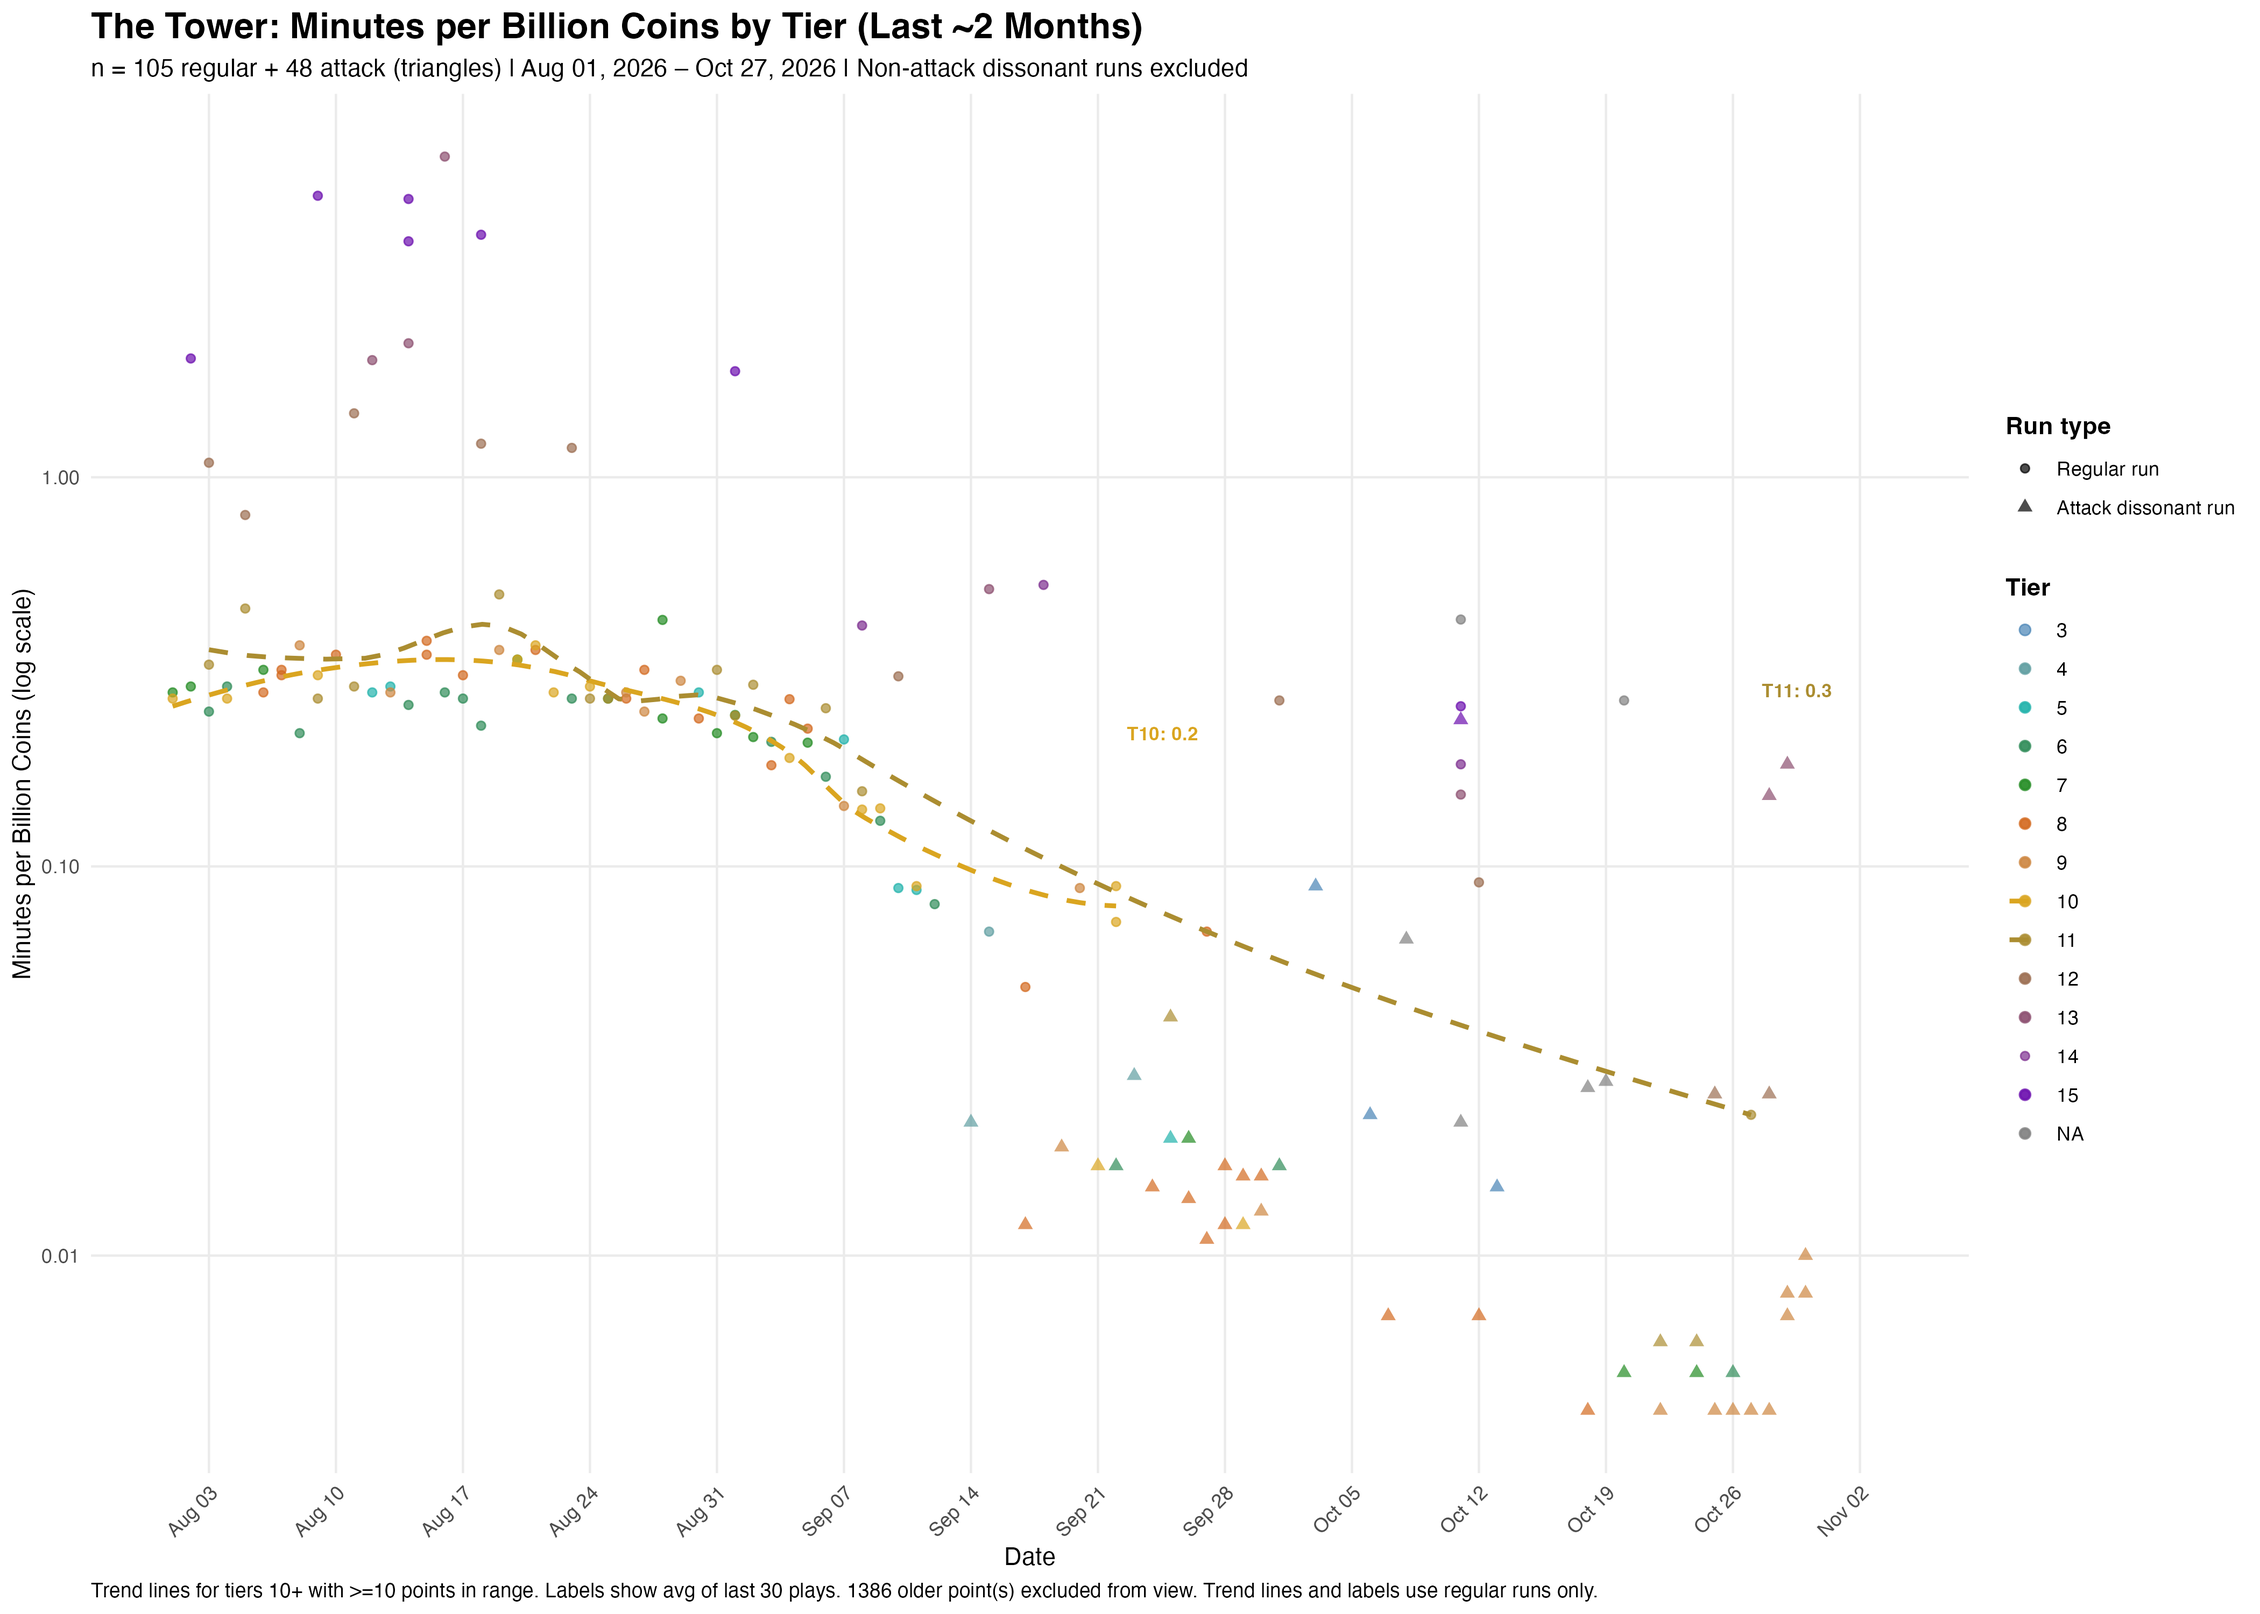
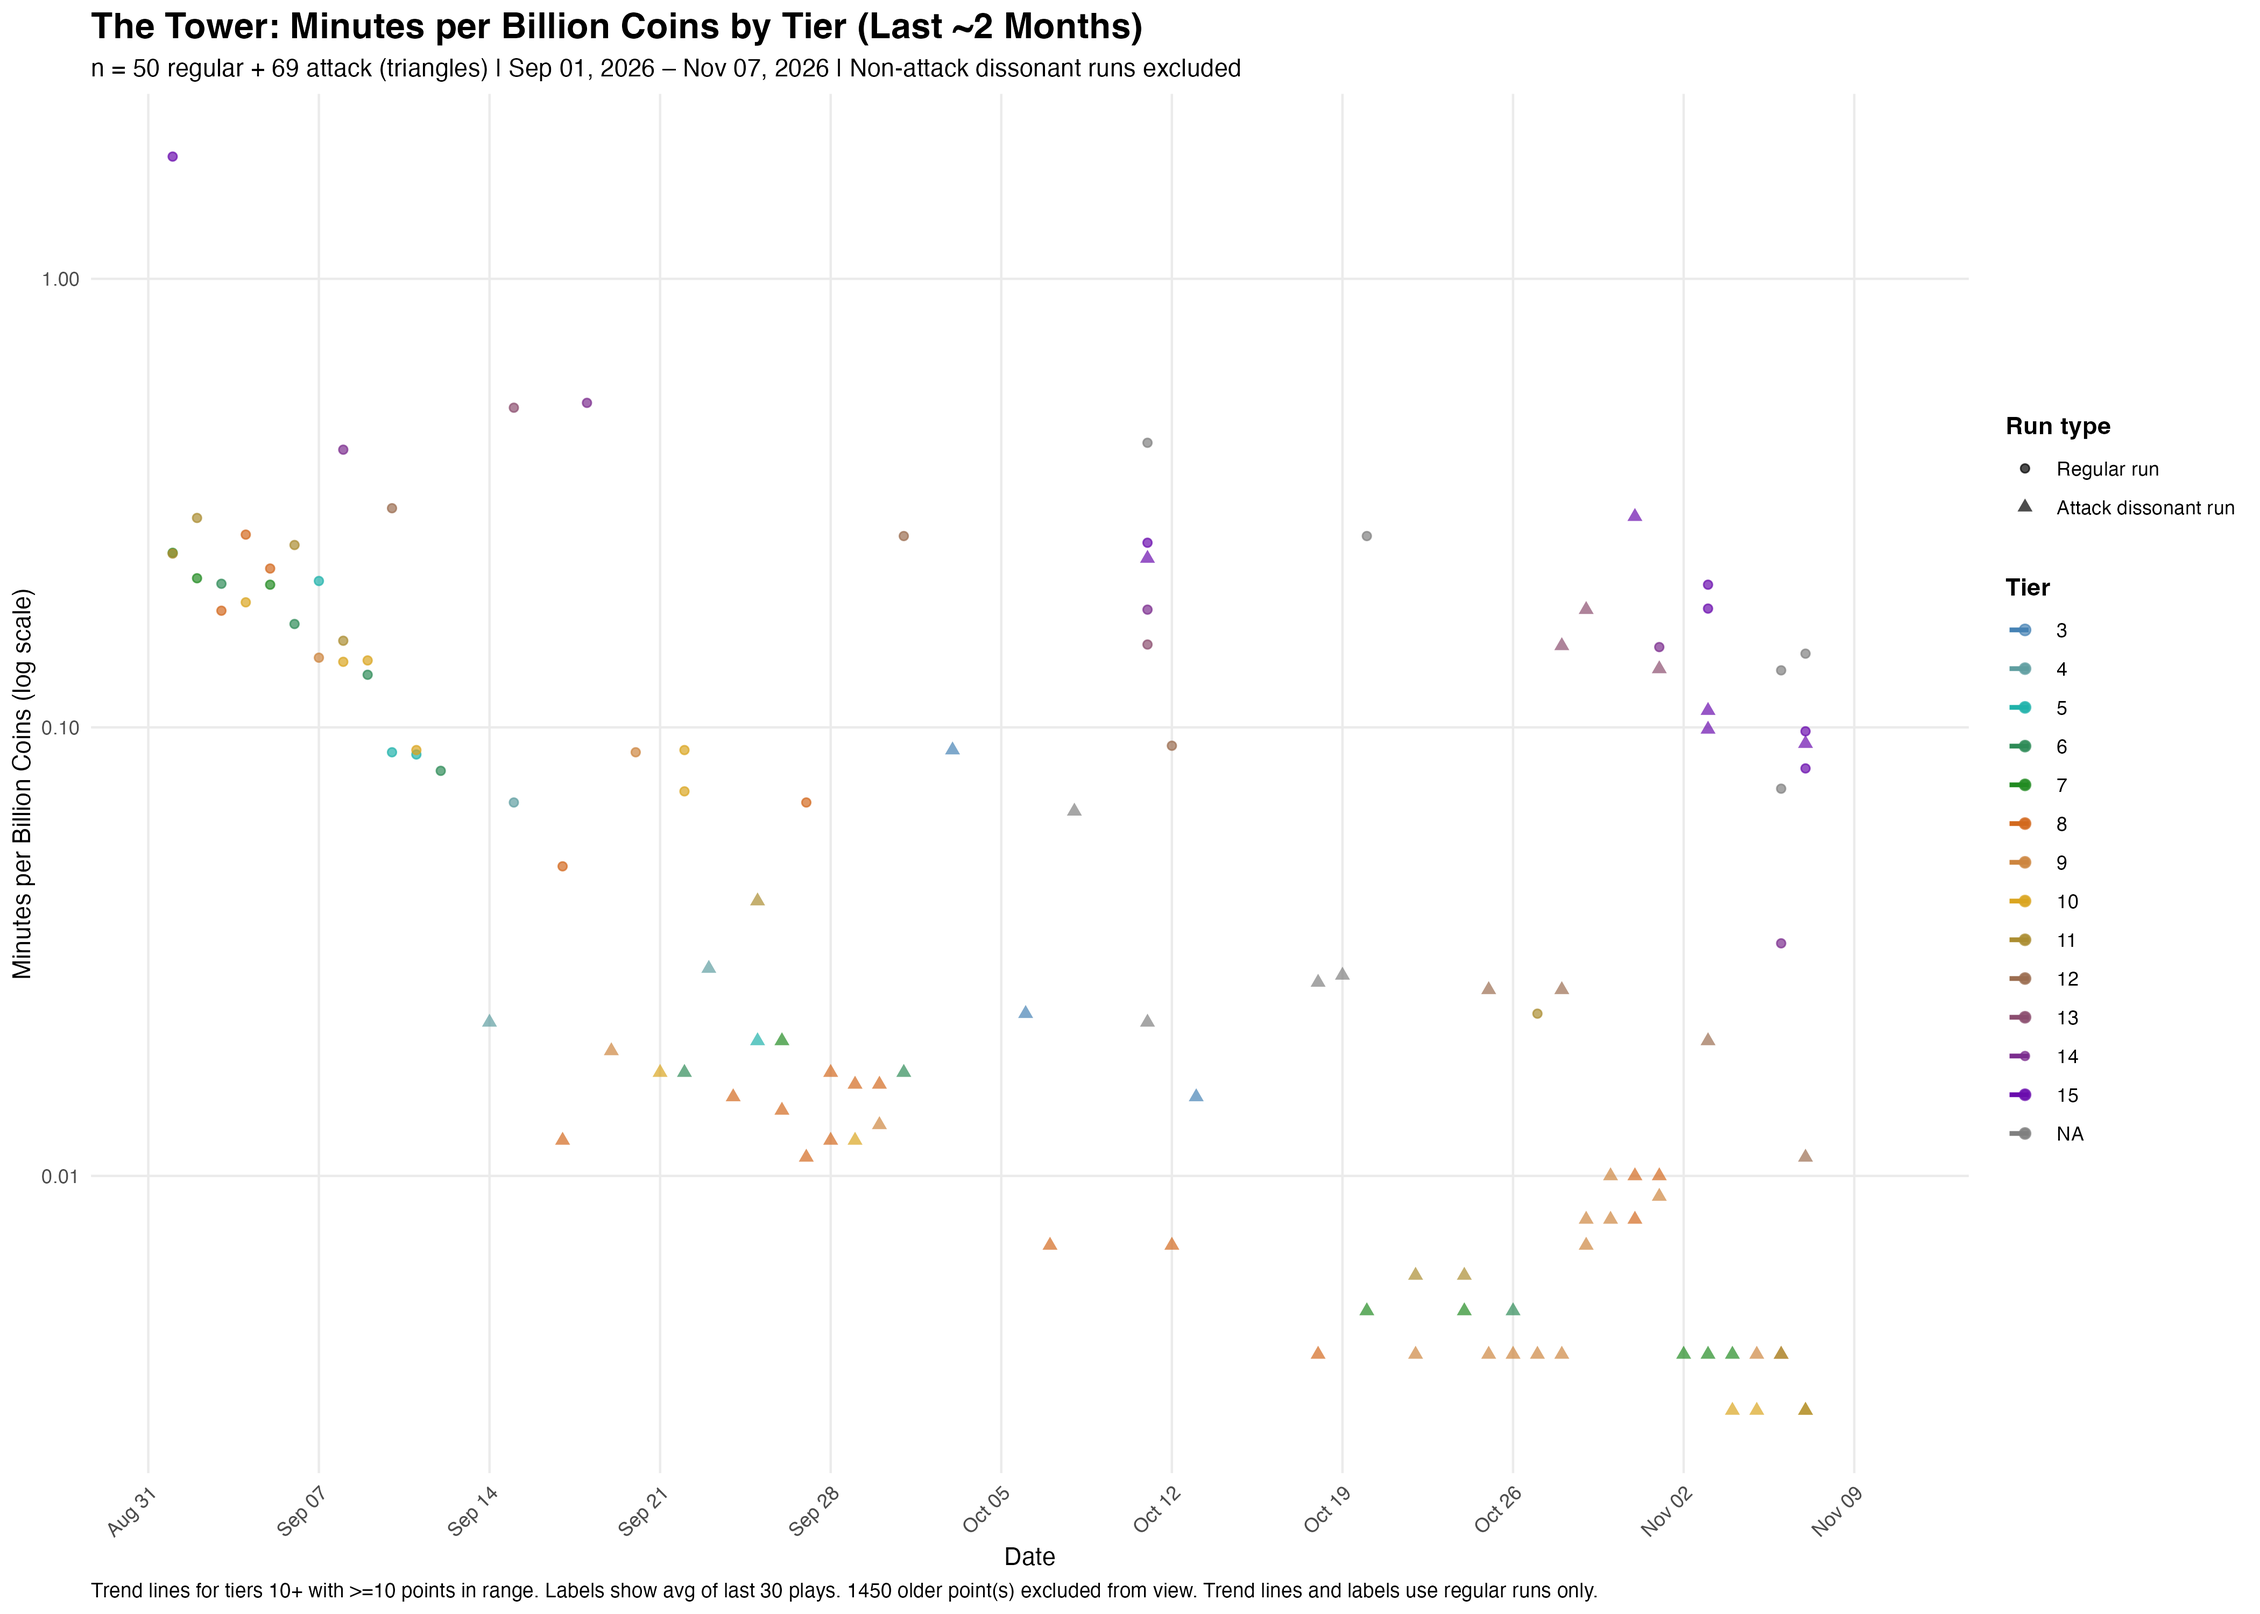
🏃 [games] The Tower: update data and graphs (#636)

diff --git a/individuals/chicks/games/the-tower/README.md b/individuals/chicks/games/the-tower/README.md
@@ -23,24 +23,24 @@ this repo.
 
 <!-- Auto-generated by analyze-playlog.R — do not edit between these markers -->
 
-### Recent Statistics (Jun 2026 – Oct 2026)
+### Recent Statistics (Jul 2026 – Nov 2026)
 
 | Tier | Games | Total Coins (B) | Avg Duration | Max Duration | Avg Coins (B) | Max Coins (B) | Avg Min/B | Avg Coins/Hr |
 | ----- | ------: | --------------: | -----------: | -----------: | --------------: | --------------: | ----------: | -------------: |
-| 16 | 2 | 51.2 | 0h10m | 0h15m | 25.6 | 34.9 | 0.35 | 182.0 |
-| 15 | 13 | 134.0 | 0h18m | 0h26m | 10.3 | 78.2 | 4.53 | 31.4 |
-| 14 | 8 | 888.6 | 0h57m | 1h49m | 111.1 | 595.0 | 2.60 | 83.3 |
-| 13 | 25 | 2,527.2 | 2h02m | 3h25m | 101.1 | 1340.0 | 3.37 | 38.0 |
-| 12 | 17 | 9,139.4 | 4h56m | 6h11m | 537.6 | 3420.0 | 1.05 | 107.8 |
-| 11 | 24 | 55,744.4 | 8h04m | 8h45m | 2322.7 | 21630.0 | 0.34 | 285.4 |
-| 10 | 58 | 126,705.0 | 9h57m | 10h17m | 2184.6 | 7800.0 | 0.31 | 221.6 |
-| 9 | 23 | 51,148.3 | 11h01m | 11h47m | 2223.8 | 7100.0 | 0.34 | 203.7 |
-| 8 | 27 | 80,262.9 | 11h49m | 12h51m | 2972.7 | 13350.0 | 0.30 | 255.0 |
-| 7 | 18 | 48,903.0 | 12h54m | 13h30m | 2716.8 | 3610.0 | 0.29 | 211.0 |
-| 6 | 19 | 78,400.0 | 15h04m | 15h39m | 4126.3 | 10590.0 | 0.24 | 277.6 |
+| 16 | 5 | 280.7 | 0h09m | 0h15m | 56.1 | 125.4 | 0.21 | 408.6 |
+| 15 | 13 | 1,101.0 | 0h22m | 0h32m | 84.7 | 398.6 | 2.69 | 179.7 |
+| 14 | 7 | 6,194.5 | 1h24m | 2h31m | 884.9 | 4580.0 | 1.30 | 404.8 |
+| 13 | 9 | 2,066.0 | 2h27m | 3h25m | 229.6 | 1340.0 | 2.33 | 77.1 |
+| 12 | 13 | 8,396.9 | 5h01m | 6h11m | 645.9 | 3420.0 | 0.90 | 128.7 |
+| 11 | 19 | 50,391.2 | 8h06m | 8h45m | 2652.2 | 21630.0 | 0.31 | 325.1 |
+| 10 | 30 | 79,422.1 | 9h58m | 10h17m | 2647.4 | 7800.0 | 0.27 | 269.7 |
+| 9 | 16 | 39,617.4 | 11h03m | 11h47m | 2476.1 | 7100.0 | 0.31 | 227.1 |
+| 8 | 23 | 72,657.1 | 11h50m | 12h51m | 3159.0 | 13350.0 | 0.29 | 271.2 |
+| 7 | 17 | 46,506.0 | 12h54m | 13h30m | 2735.6 | 3610.0 | 0.29 | 212.5 |
+| 6 | 18 | 74,950.0 | 15h04m | 15h39m | 4163.9 | 10590.0 | 0.24 | 280.2 |
 | 5 | 7 | 38,297.8 | 15h56m | 17h16m | 5471.1 | 10480.0 | 0.23 | 351.9 |
 | 4 | 1 | 14,480.0 | 16h29m | 16h29m | 14480.0 | 14480.0 | 0.07 | 878.8 |
-| **All** | **242** | **506,681.8** | **8h50m** | **17h16m** | **2093.7** | **21630.0** | **0.98** | **198.0** |
+| **All** | **178** | **434,360.8** | **9h07m** | **17h16m** | **2440.2** | **21630.0** | **0.64** | **256.8** |
 
 <!-- RECENT-STATS-END -->
 
@@ -48,13 +48,13 @@ this repo.
 
 <!-- Auto-generated by analyze-playlog.R — do not edit between these markers -->
 
-### Recent Tournament Statistics (Apr 2026 – Oct 2026)
+### Recent Tournament Statistics (May 2026 – Nov 2026)
 
 | Tier | Games | Total Coins (B) | Avg Duration | Max Duration | Avg Coins (B) | Max Coins (B) | Avg Wave | Max Wave |
 | ----- | ------: | --------------: | -----------: | -----------: | --------------: | --------------: | ------: | ------: |
-| T-12 | 10 | 158.8 | 0h27m | 0h54m | 15.9 | 63.5 | 611 | 772 |
-| T-8 | 73 | 3,422.5 | 2h24m | 3h20m | 46.9 | 326.4 | 1719 | 2418 |
-| **All** | **83** | **3,581.3** | **2h10m** | **3h20m** | **43.1** | **326.4** | **1585** | **2418** |
+| T-12 | 13 | 169.0 | 0h22m | 0h54m | 13.0 | 63.5 | 674 | 862 |
+| T-8 | 63 | 3,246.6 | 2h22m | 3h20m | 51.5 | 326.4 | 1765 | 2593 |
+| **All** | **76** | **3,415.6** | **2h01m** | **3h20m** | **44.9** | **326.4** | **1578** | **2593** |
 
 <!-- RECENT-TOURNAMENT-STATS-END -->
 
@@ -102,69 +102,72 @@ has been since that run was done.
 
 <!-- Auto-generated by analyze-playlog.R — do not edit between these markers -->
 
-### Recent Dissonant Run Statistics (as of 2026-10-30)
+### Recent Dissonant Run Statistics (as of 2026-11-08)
 
 Latest dissonant run per tier and category. `Pct of Max` = Finish Wave / Max Wave for that tier.
 
 | Tier | Category | Last Run | Finish Wave | Max Wave | Pct of Max | Days Since |
 | ----- | -------- | -------- | ----------: | -------: | ---------: | ---------: |
-| 15 | Attack | 2026-10-11 | 163 | 327 | 49.8% | 19 |
-| 14 | Attack | 2026-04-20 | 104 | 493 | 21.1% | 193 |
-| 14 | Defense | 2026-04-13 | 34 | 493 | 6.9% | 200 |
-| 14 | Utility | 2026-04-20 | 226 | 493 | 45.8% | 193 |
-| 14 | Ultimate Weapons | 2026-04-13 | 298 | 493 | 60.4% | 200 |
-| 13 | Attack | 2026-10-29 | 769 | 4074 | 18.9% | 1 |
-| 13 | Defense | 2026-10-20 | 545 | 2718 | 20.1% | 10 |
-| 13 | Utility | 2026-04-10 | 611 | 1460 | 41.8% | 203 |
-| 13 | Ultimate Weapons | 2026-04-10 | 581 | 1460 | 39.8% | 203 |
-| 12 | Attack | 2026-10-28 | 3485 | 4074 | 85.5% | 2 |
-| 12 | Defense | 2026-05-18 | 720 | 3118 | 23.1% | 165 |
-| 12 | Utility | 2026-05-18 | 1828 | 3118 | 58.6% | 165 |
-| 12 | Ultimate Weapons | 2026-05-18 | 1387 | 3118 | 44.5% | 165 |
-| 11 | Attack | 2026-10-24 | 5736 | 6187 | 92.7% | 6 |
-| 11 | Defense | 2026-10-22 | 3308 | 6187 | 53.5% | 8 |
-| 11 | Utility | 2026-10-23 | 4240 | 6187 | 68.5% | 7 |
-| 11 | Ultimate Weapons | 2026-10-23 | 4781 | 6187 | 77.3% | 7 |
-| 10 | Attack | 2026-09-29 | 6879 | 7569 | 90.9% | 31 |
-| 10 | Defense | 2026-10-21 | 4715 | 7569 | 62.3% | 9 |
-| 10 | Utility | 2026-10-23 | 5209 | 7569 | 68.8% | 7 |
-| 10 | Ultimate Weapons | 2026-09-21 | 5464 | 7569 | 72.2% | 39 |
-| 9 | Attack | 2026-10-30 | 7165 | 9198 | 77.9% | 0 |
-| 9 | Defense | 2026-10-21 | 5183 | 8160 | 63.5% | 9 |
-| 9 | Utility | 2026-09-18 | 5200 | 8160 | 63.7% | 42 |
-| 9 | Ultimate Weapons | 2026-09-18 | 6056 | 8160 | 74.2% | 42 |
-| 8 | Attack | 2026-10-18 | 9779 | 9737 | 100.4% | 12 |
-| 8 | Defense | 2026-10-21 | 5334 | 9779 | 54.5% | 9 |
-| 8 | Utility | 2026-09-15 | 5320 | 8788 | 60.5% | 45 |
-| 8 | Ultimate Weapons | 2026-09-16 | 6643 | 8788 | 75.6% | 44 |
-| 7 | Attack | 2026-10-24 | 11461 | 11169 | 102.6% | 6 |
-| 7 | Defense | 2026-10-02 | 5184 | 9450 | 54.9% | 28 |
-| 7 | Utility | 2026-10-15 | 6414 | 9450 | 67.9% | 15 |
-| 7 | Ultimate Weapons | 2026-06-13 | 6087 | 6096 | 99.9% | 139 |
-| 6 | Attack | 2026-10-26 | 13908 | 11723 | 118.6% | 4 |
-| 6 | Defense | 2026-10-14 | 5526 | 11723 | 47.1% | 16 |
-| 6 | Utility | 2026-06-15 | 5605 | 6344 | 88.4% | 137 |
-| 6 | Ultimate Weapons | 2026-06-16 | 7173 | 6344 | 113.1% | 136 |
-| 5 | Attack | 2026-09-25 | 12077 | 11955 | 101.0% | 35 |
-| 5 | Defense | 2026-10-13 | 5708 | 12077 | 47.3% | 17 |
-| 5 | Utility | 2026-07-03 | 6064 | 6378 | 95.1% | 119 |
-| 5 | Ultimate Weapons | 2026-07-04 | 7862 | 6378 | 123.3% | 118 |
-| 4 | Attack | 2026-09-23 | 13035 | 13010 | 100.2% | 37 |
-| 4 | Defense | 2026-10-14 | 5559 | 13035 | 42.6% | 16 |
-| 4 | Utility | 2026-09-12 | 6890 | 6459 | 106.7% | 48 |
-| 4 | Ultimate Weapons | 2026-09-13 | 10003 | 6890 | 145.2% | 47 |
-| 3 | Attack | 2026-10-13 | 15212 | 14506 | 104.9% | 17 |
-| 3 | Defense | 2026-10-04 | 5489 | 13017 | 42.2% | 26 |
-| 3 | Utility | 2026-10-04 | 8433 | 13017 | 64.8% | 26 |
-| 3 | Ultimate Weapons | 2026-10-05 | 12189 | 13017 | 93.6% | 25 |
-| 2 | Attack | 2026-10-11 | 14866 | 14800 | 100.4% | 19 |
-| 2 | Defense | 2026-10-09 | 5549 | 14800 | 37.5% | 21 |
-| 2 | Utility | 2026-10-09 | 9577 | 14800 | 64.7% | 21 |
-| 2 | Ultimate Weapons | 2026-10-10 | 13620 | 14800 | 92.0% | 20 |
-| 1 | Attack | 2026-10-19 | 15523 | 15322 | 101.3% | 11 |
-| 1 | Defense | 2026-10-15 | 6059 | 8722 | 69.5% | 15 |
-| 1 | Utility | 2026-10-16 | 11957 | 8722 | 137.1% | 14 |
-| 1 | Ultimate Weapons | 2026-10-17 | 15124 | 11957 | 126.5% | 13 |
-| **All** | **151 runs** | **2026-10-30** | **15523** | — | **71.8%** | **0** |
+| 15 | Attack | 2026-11-07 | 220 | 481 | 45.7% | 1 |
+| 15 | Defense | 2026-11-03 | 100 | 375 | 26.7% | 5 |
+| 15 | Utility | 2026-11-07 | 357 | 481 | 74.2% | 1 |
+| 15 | Ultimate Weapons | 2026-11-07 | 266 | 481 | 55.3% | 1 |
+| 14 | Attack | 2026-04-20 | 104 | 493 | 21.1% | 202 |
+| 14 | Defense | 2026-10-30 | 205 | 1473 | 13.9% | 9 |
+| 14 | Utility | 2026-11-07 | 842 | 2034 | 41.4% | 1 |
+| 14 | Ultimate Weapons | 2026-11-07 | 653 | 2034 | 32.1% | 1 |
+| 13 | Attack | 2026-11-01 | 1014 | 2718 | 37.3% | 7 |
+| 13 | Defense | 2026-10-20 | 545 | 2718 | 20.1% | 19 |
+| 13 | Utility | 2026-11-07 | 1616 | 2718 | 59.5% | 1 |
+| 13 | Ultimate Weapons | 2026-11-07 | 1379 | 2718 | 50.7% | 1 |
+| 12 | Attack | 2026-11-07 | 3936 | 4074 | 96.6% | 1 |
+| 12 | Defense | 2026-10-30 | 1619 | 4074 | 39.7% | 9 |
+| 12 | Utility | 2026-11-02 | 2860 | 4074 | 70.2% | 6 |
+| 12 | Ultimate Weapons | 2026-11-02 | 3152 | 4074 | 77.4% | 6 |
+| 11 | Attack | 2026-11-07 | 7192 | 6510 | 110.5% | 1 |
+| 11 | Defense | 2026-10-22 | 3308 | 6187 | 53.5% | 17 |
+| 11 | Utility | 2026-10-23 | 4240 | 6187 | 68.5% | 16 |
+| 11 | Ultimate Weapons | 2026-10-23 | 4781 | 6187 | 77.3% | 16 |
+| 10 | Attack | 2026-11-07 | 9464 | 8210 | 115.3% | 1 |
+| 10 | Defense | 2026-10-21 | 4715 | 7569 | 62.3% | 18 |
+| 10 | Utility | 2026-10-23 | 5209 | 7569 | 68.8% | 16 |
+| 10 | Ultimate Weapons | 2026-09-21 | 5464 | 7569 | 72.2% | 48 |
+| 9 | Attack | 2026-11-06 | 9300 | 9363 | 99.3% | 2 |
+| 9 | Defense | 2026-10-21 | 5183 | 8160 | 63.5% | 18 |
+| 9 | Utility | 2026-09-18 | 5200 | 8160 | 63.7% | 51 |
+| 9 | Ultimate Weapons | 2026-09-18 | 6056 | 8160 | 74.2% | 51 |
+| 8 | Attack | 2026-11-01 | 8089 | 9779 | 82.7% | 7 |
+| 8 | Defense | 2026-10-21 | 5334 | 9779 | 54.5% | 18 |
+| 8 | Utility | 2026-09-15 | 5320 | 8788 | 60.5% | 54 |
+| 8 | Ultimate Weapons | 2026-09-16 | 6643 | 8788 | 75.6% | 53 |
+| 7 | Attack | 2026-11-04 | 11733 | 11779 | 99.6% | 4 |
+| 7 | Defense | 2026-10-02 | 5184 | 9450 | 54.9% | 37 |
+| 7 | Utility | 2026-10-15 | 6414 | 9450 | 67.9% | 24 |
+| 7 | Ultimate Weapons | 2026-06-13 | 6087 | 6096 | 99.9% | 148 |
+| 6 | Attack | 2026-10-26 | 13908 | 11723 | 118.6% | 13 |
+| 6 | Defense | 2026-10-14 | 5526 | 11723 | 47.1% | 25 |
+| 6 | Utility | 2026-06-15 | 5605 | 6344 | 88.4% | 146 |
+| 6 | Ultimate Weapons | 2026-06-16 | 7173 | 6344 | 113.1% | 145 |
+| 5 | Attack | 2026-09-25 | 12077 | 11955 | 101.0% | 44 |
+| 5 | Defense | 2026-10-13 | 5708 | 12077 | 47.3% | 26 |
+| 5 | Utility | 2026-07-03 | 6064 | 6378 | 95.1% | 128 |
+| 5 | Ultimate Weapons | 2026-07-04 | 7862 | 6378 | 123.3% | 127 |
+| 4 | Attack | 2026-09-23 | 13035 | 13010 | 100.2% | 46 |
+| 4 | Defense | 2026-10-14 | 5559 | 13035 | 42.6% | 25 |
+| 4 | Utility | 2026-09-12 | 6890 | 6459 | 106.7% | 57 |
+| 4 | Ultimate Weapons | 2026-09-13 | 10003 | 6890 | 145.2% | 56 |
+| 3 | Attack | 2026-10-13 | 15212 | 14506 | 104.9% | 26 |
+| 3 | Defense | 2026-10-04 | 5489 | 13017 | 42.2% | 35 |
+| 3 | Utility | 2026-10-04 | 8433 | 13017 | 64.8% | 35 |
+| 3 | Ultimate Weapons | 2026-10-05 | 12189 | 13017 | 93.6% | 34 |
+| 2 | Attack | 2026-10-11 | 14866 | 14800 | 100.4% | 28 |
+| 2 | Defense | 2026-10-09 | 5549 | 14800 | 37.5% | 30 |
+| 2 | Utility | 2026-10-09 | 9577 | 14800 | 64.7% | 30 |
+| 2 | Ultimate Weapons | 2026-10-10 | 13620 | 14800 | 92.0% | 29 |
+| 1 | Attack | 2026-10-19 | 15523 | 15322 | 101.3% | 20 |
+| 1 | Defense | 2026-10-15 | 6059 | 8722 | 69.5% | 24 |
+| 1 | Utility | 2026-10-16 | 11957 | 8722 | 137.1% | 23 |
+| 1 | Ultimate Weapons | 2026-10-17 | 15124 | 11957 | 126.5% | 22 |
+| **All** | **186 runs** | **2026-11-07** | **15523** | — | **71.7%** | **1** |
 
 <!-- RECENT-DISSONANT-STATS-END -->
